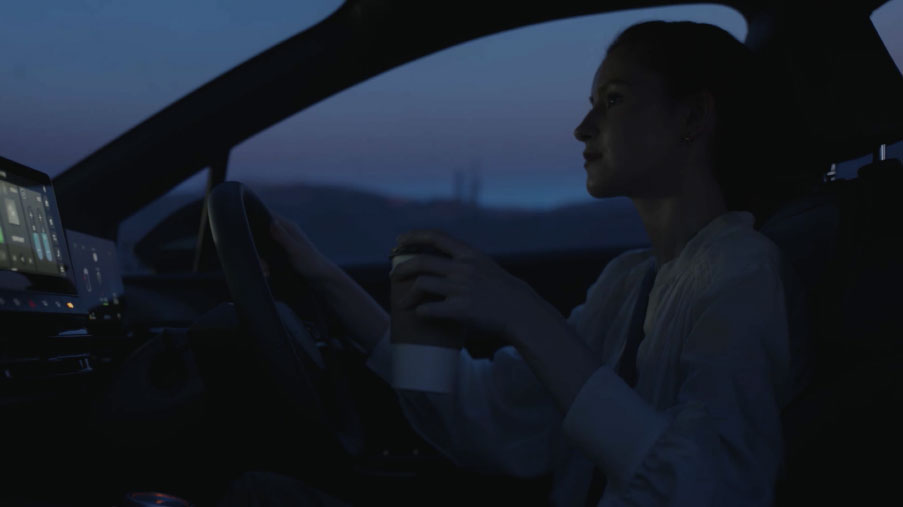
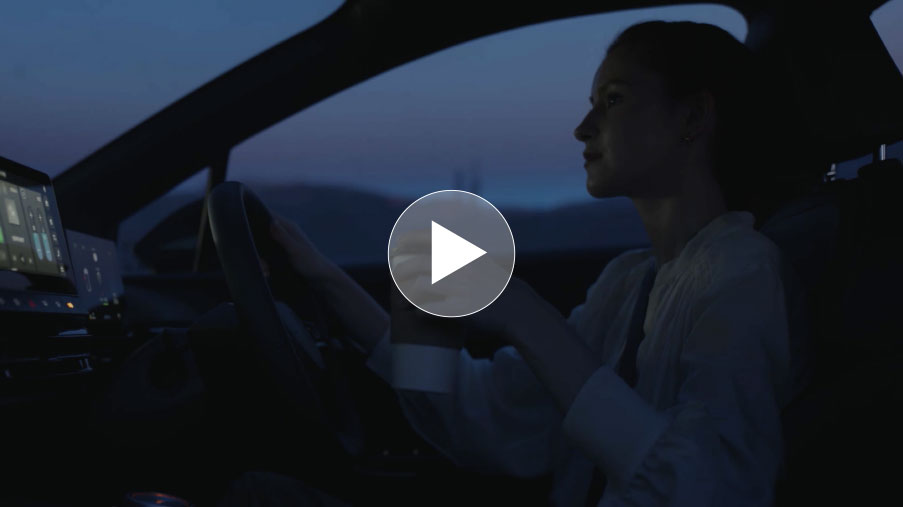
chore: Update image height and add navigation arrows to life page

Changed region(s): [[0.4031, 0.355, 0.5891, 0.6509]]

diff --git a/src/pages/page/life/slide.tsx b/src/pages/page/life/slide.tsx
@@ -1,22 +1,59 @@
-import { memo, useEffect } from 'react';
+import Article from '@/components/article';
+import { Context } from '@/settings/constant';
+import { ActionType } from '@/settings/type';
+import { memo, useContext, useMemo } from 'react';
+import { twMerge } from 'tailwind-merge';
+import { LifeCarousel } from './config';
+import './slide.less';
 
-const Slide = memo(() => {
-  useEffect(() => {}, []);
+const Slide = memo(({ index, data }: { index: number; data: (typeof LifeCarousel)[number] }) => {
+  const [context] = useContext(Context);
+  const device = context[ActionType.Device];
+
+  const body = useMemo(() => {
+    if (device === 'mobile') {
+      return <p>{data.body.join('')}</p>;
+    }
+    return (
+      <>
+        {data.body.map((text) => (
+          <p key={text}>{text}</p>
+        ))}
+      </>
+    );
+  }, [data.body, device]);
+
   return (
-    <div className='flex w-full flex-row'>
-      <div className='h-[337px] w-[600px] p-5'>
-        <div className='v0 h-full w-full'></div>
-      </div>
-      <div className='flex h-[337px] flex-1 flex-col items-start justify-center space-y-10 px-20'>
-        <div className='carousel-headline'>
-          <h1 className='font-mxThin text-4xl font-thin tracking-widest'>純電移動生活</h1>
-          <h2 className='font-mxBook text-lg'>在寧靜中 創造美好體驗</h2>
+    <div className='flex w-full'>
+      <Article>
+        <div className='Slide flex w-full'>
+          {device === 'mobile' && (
+            <div className='w-full'>
+              <div className='carousel-headline'>
+                <h1 className='font-mxThin font-thin tracking-widest'>{data.headline}</h1>
+                <h2 className='font-mxBook'>{data.subline}</h2>
+              </div>
+            </div>
+          )}
+          <div className='image'>
+            <div className={twMerge('video h-full w-full', `v${index}`)}></div>
+          </div>
+          <div className='content flex h-[337px] flex-1 flex-col items-start justify-center space-y-10'>
+            {device === 'desktop' && (
+              <div className='w-full'>
+                <div className='carousel-headline'>
+                  <h1 className='font-mxThin font-thin tracking-widest'>{data.headline}</h1>
+                  <h2 className='font-mxBook'>{data.subline}</h2>
+                </div>
+              </div>
+            )}
+            <div className='carousel-content'>
+              {body}
+              {data.postscript !== '' && <p className='postscript'>{data.postscript}</p>}
+            </div>
+          </div>
         </div>
-        <div className='carousel-content'>
-          <p>全然靜謐的駕馭體驗，穿梭於自然卻不自造喧囂，</p>
-          <p>沉浸與世界和諧共生的純電境界。</p>
-        </div>
-      </div>
+      </Article>
     </div>
   );
 });

diff --git a/src/pages/page/life/slide.less b/src/pages/page/life/slide.less
@@ -1,0 +1,145 @@
+.Slide {
+  .carousel-headline {
+    @apply flex flex-col justify-center space-y-2;
+
+    h1 {
+      @apply text-2xl;
+    }
+  }
+
+  .carousel-content {
+    @apply flex flex-col items-start justify-center font-mxLight;
+
+    .postscript {
+      @apply w-full font-mxLight font-light;
+    }
+  }
+
+  .video {
+    background-position: center;
+    background-size: cover;
+  }
+
+  .v0 {
+    background-image: url('./img/v0.jpg');
+  }
+
+  .v1 {
+    background-image: url('./img/v1.jpg');
+  }
+
+  .v2 {
+    background-image: url('./img/v2.jpg');
+  }
+
+  .v3 {
+    background-image: url('./img/v3.jpg');
+  }
+}
+
+.flap {
+  transform: scale(-1, 1);
+}
+
+.Arrow {
+  background-image: url('./img/arrow.svg');
+  background-position: center;
+  background-size: 40%;
+  background-repeat: no-repeat;
+  @apply absolute top-1/2 bg-secondary;
+
+  &:hover {
+    @apply bg-primary;
+  }
+}
+
+.Desktop {
+  .Slide {
+    @apply flex-row;
+
+    .image {
+      width: 600px;
+      height: 337px;
+      @apply p-5;
+    }
+
+    .content {
+      @apply px-20;
+    }
+
+    .carousel-headline {
+      @apply flex-col items-start text-base;
+
+      h1 {
+        @apply text-4xl;
+      }
+
+      h2 {
+        @apply text-lg;
+      }
+    }
+
+    .carousel-content {
+      @apply text-sm;
+
+      .postscript {
+        @apply pt-5 text-xs;
+      }
+    }
+  }
+
+  .Arrow {
+    @apply h-10 w-10;
+  }
+}
+
+.Mobile {
+  .Slide {
+    @apply flex-col;
+
+    .image {
+      width: 100%;
+      height: 236px;
+
+      @apply p-5;
+    }
+
+    .content {
+      @apply px-7;
+    }
+
+    .carousel-headline {
+      @apply flex-row items-baseline space-x-1 text-sm;
+
+      h1 {
+        @apply text-2xl;
+        @media only screen and (max-width: 430px) {
+          & {
+            font-size: 5.6vw;
+          }
+        }
+      }
+
+      h2 {
+        @apply text-base;
+        @media only screen and (max-width: 430px) {
+          & {
+            font-size: 3.7vw;
+          }
+        }
+      }
+    }
+
+    .carousel-content {
+      @apply text-xs;
+
+      .postscript {
+        font-size: 0.6rem;
+        @apply pt-4;
+      }
+    }
+  }
+  .Arrow {
+    @apply h-6 w-6;
+  }
+}

diff --git a/src/pages/page/life/index.tsx b/src/pages/page/life/index.tsx
@@ -1,33 +1,36 @@
-import Article from '@/components/article';
 import { memo, useEffect } from 'react';
+import 'swiper/css';
 import { Swiper, SwiperSlide } from 'swiper/react';
 import './index.less';
-import 'swiper/css';
 import Slide from './slide';
+import { twMerge } from 'tailwind-merge';
+import { LifeCarousel } from './config';
+
+const Arrow = memo(({ direct }: { direct: 'next' | 'prev' }) => {
+  return (
+    <button className={twMerge('Arrow', direct === 'next' ? 'flap right-0' : 'left-0')}></button>
+  );
+});
 
 const Life = memo(() => {
   useEffect(() => {}, []);
   return (
     <div className='Life'>
-      <Article>
-        <Swiper
-          spaceBetween={50}
-          slidesPerView={1}
-          onSlideChange={() => console.log('slide change')}
-          onSwiper={(swiper) => console.log(swiper)}
-        >
-          <SwiperSlide>
-            <Slide />
+      <Arrow direct='prev' />
+      <Swiper
+        spaceBetween={50}
+        slidesPerView={1}
+        loop={true}
+        onSlideChange={() => console.log('slide change')}
+        onSwiper={(swiper) => console.log(swiper)}
+      >
+        {LifeCarousel.map((data, index) => (
+          <SwiperSlide key={`${data.body}${index}`}>
+            <Slide index={index} data={data} />
           </SwiperSlide>
-          <SwiperSlide>
-            <Slide />
-          </SwiperSlide>
-          <SwiperSlide>
-            <Slide />
-          </SwiperSlide>
-          <SwiperSlide>Slide 4</SwiperSlide>
-        </Swiper>
-      </Article>
+        ))}
+      </Swiper>
+      <Arrow direct='next' />
     </div>
   );
 });

diff --git a/src/pages/page/life/config.tsx b/src/pages/page/life/config.tsx
@@ -1,0 +1,37 @@
+export const LifeCarousel = [
+  {
+    headline: '純電移動生活',
+    subline: '在寧靜中 創造美好體驗',
+    body: ['全然靜謐的駕馭體驗，穿梭於自然卻不自造喧囂，', '沉浸與世界和諧共生的純電境界。'],
+    postscript: '',
+  },
+  {
+    headline: '純電移動生活',
+    subline: '強大動能 化熱情為衝勁',
+    body: [
+      '以純電驅動，享受駕馭就此不同，',
+      '不僅有專屬單踏板模式，不浪費一點動能，',
+      '更能享受零百加速僅需 3.8 秒*的貼背快感。',
+    ],
+    postscript: '*0-100km 加速時間 3.8 秒僅限 MG4 XPOWER',
+  },
+  {
+    headline: '純電移動生活',
+    subline: '自在掌握 你的充電時光',
+    body: [
+      '因地制宜的充電選擇，無痛解鎖純電新生活，',
+      '不論快充與慢充，皆可搭配 MY MG APP 遠端管理，',
+      '輕鬆掌握車輛充電狀態。',
+    ],
+    postscript: '*智慧車聯網系統與手機介面以MG Taiwan提供之MY MG App服務為準，並僅供MG4使用',
+  },
+  {
+    headline: '純電移動生活',
+    subline: '電能滿載 讓生活充滿精彩',
+    body: [
+      '當愛車也能提供電能，將為生活帶來更多可能，',
+      '無論在何時何地，透過V2L外接供電滿足各種用電需求*。',
+    ],
+    postscript: '*如欲選購V2L外接供電轉接器，詳情請洽經銷商',
+  },
+];

diff --git a/src/pages/page/life/index.less b/src/pages/page/life/index.less
@@ -1,32 +1,19 @@
 .Life {
-  height: 500px;
-  @apply py-10;
+  @apply relative py-10;
 
   .headline {
     @apply flex w-full justify-center;
-  }
-
-  .carousel-headline {
-    @apply flex flex-col items-start justify-center space-y-2;
-  }
-
-  .carousel-content {
-    @apply flex flex-col items-start justify-center font-mxLight text-base;
-  }
-
-  .v0 {
-    background-image: url('./img/v0.jpg');
-    background-position: center;
-    background-size: cover;
   }
 }
 
 .Desktop {
   .Life {
+    height: 430px;
   }
 }
 
 .Mobile {
   .Life {
+    height: 450px;
   }
 }

diff --git a/tailwind.config.js b/tailwind.config.js
@@ -38,7 +38,7 @@ export default {
     colors: {
       ...color,
       primary: '#3aae36',
-      secondary: '#ff6600',
+      secondary: '#333333',
       tertiary: '#ff0066',
       quaternary: '#00ff00',
       backgroundColor: '#fff',
